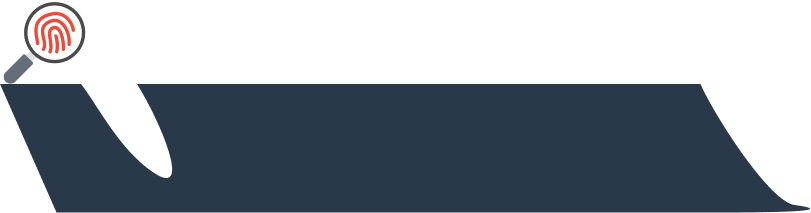
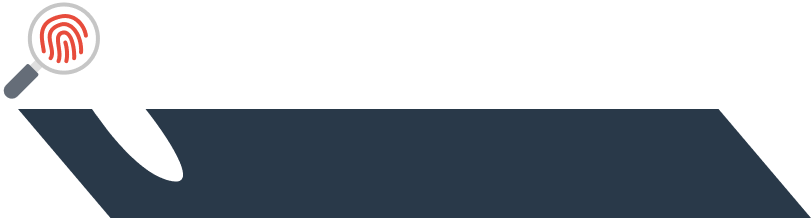
Round Display on Smart Tv fixed

Changed region(s): [[0.0, 0.0, 1.0, 1.0], [0.1541, 0.5915, 0.2466, 0.8451], [0.1233, 0.5352, 0.1541, 0.6479]]

diff --git a/frontend/src/app/pages/smart-tv/smart-tv.component.scss b/frontend/src/app/pages/smart-tv/smart-tv.component.scss
@@ -117,37 +117,30 @@
 }
 
 .round {
-  width: 100%;
-  bottom: 0;
-  margin-left: -200px;
-  display: flex;
-
+    width: 100%;
+    height: 1080px;
+    display: flex;
+    justify-content:center;
+    align-items: flex-end;
 }
 
+.round  *{
+    margin-left: 93px;
+}
 .down_title {
-  // position: absolute;
-  width: 680px;
-  height: 119px;
-  // left: 684px;
-  // top: 854px;
-
-  font-style: normal;
-  font-weight: normal;
-  font-size: 95px;
-  line-height: 119px;
-  /* identical to box height */
-
-  display: flex;
-  align-items: center;
-
-  color: #F5F7FA;
-  z-index: 10;
+    padding-bottom:100px;
+    padding-left:135px;
+    font-style: normal;
+    font-weight: normal;
+    font-size: 95px;
+    align-items: center;
+    color: #F5F7FA;
+    z-index: 10;
 }
 
 .down_vector {
-  position: absolute;
-  // bottom: 0px;
-  // left:50%;
-  z-index: 1;
-  margin-right: -93px;
+    position: absolute;
+    // bottom: 0px;
+    // left:50%;
+    z-index: 1;
 }

diff --git a/frontend/src/app/pages/smart-tv/smart-tv.component.html b/frontend/src/app/pages/smart-tv/smart-tv.component.html
@@ -11,7 +11,7 @@
             <p class="next_up_title">{{next_title}}</p>
         </div>
         <div class="round">
-            <p class="down_title">{{phase_title}}</p>
+            <span class="down_title">{{phase_title}}</span>
             <img class="down_vector" src="../../../../assets/{{round_title_path}}.png" alt="Title of round">
         </div>
     </div>
